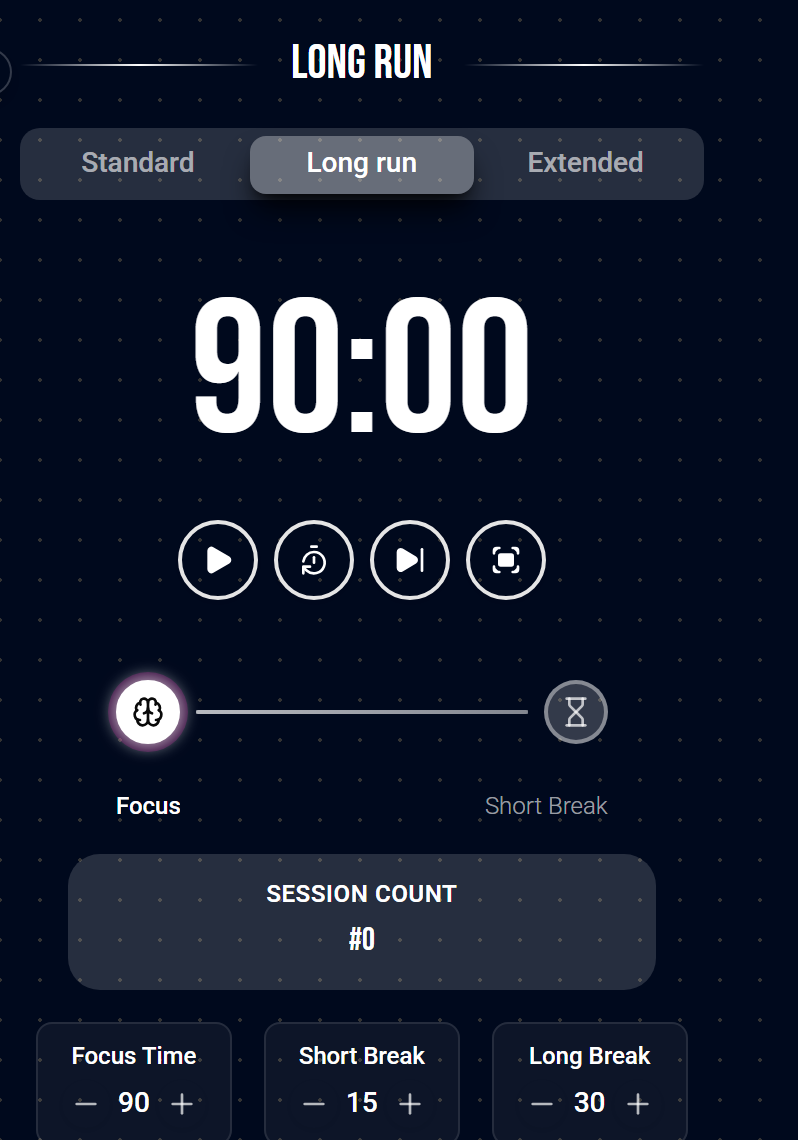
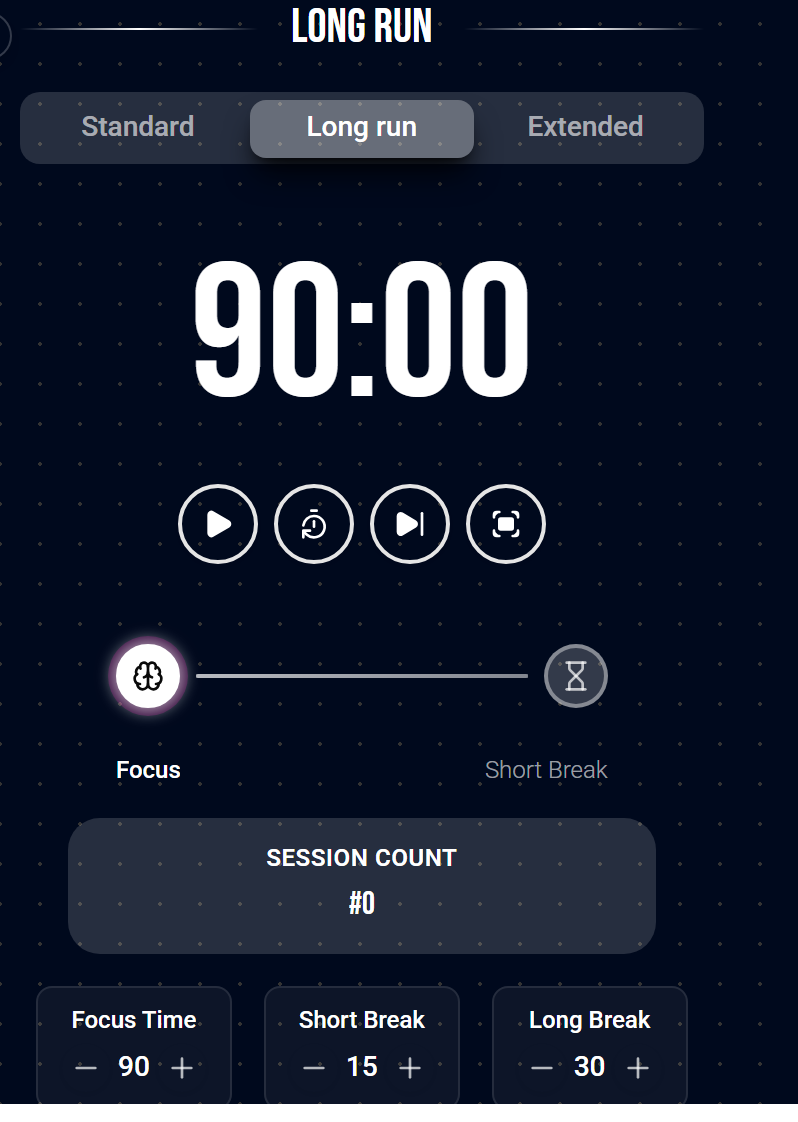
refactor: replace mismatched spotlight/grid sections with one unified feature showcase
Previously 3 features (Dashboard, Focus Timer, AI Assistant) were shown
as large alternating spotlight sections while 4 others (Habit Tracker,
Task Board, Reminders, Goals) sat below in a small screenshot grid,
an inconsistent presentation for what should read as one feature set.

Replace both with a single interactive FeatureShowcase: a tab list on
one side (all 8 screens that have a real screenshot, including Profile)
and one fixed-size frame on the other. The frame uses object-contain
inside a centered flex box, so every screenshot is centered on both
axes regardless of its own aspect ratio, and switching tabs fades the
new screenshot in.

Also fix the focus timer screenshot itself: it had 44px of empty space
above the "LONG RUN" title versus 26px below the break-duration cards,
so the content looked vertically off-center inside its own frame. Trim
the top to match. Crop the previously-unused Habit Tracker, Task Board,
Reminders, Goals, and Profile screenshots the same way (removing their
trailing dead space) before wiring them into the new showcase.

diff --git a/src/routes/index.tsx b/src/routes/index.tsx
@@ -1,4 +1,5 @@
 import { createFileRoute, Link, redirect } from "@tanstack/react-router";
+import { useState } from "react";
 import {
   Timer,
   Activity,
@@ -98,28 +99,70 @@ const features = [
   },
 ];
 
-const spotlights = [
+const showcaseItems = [
   {
-    title: "See everything at a glance",
+    icon: LayoutDashboard,
+    title: "Dashboard",
     description:
-      "The dashboard pulls together focus sessions completed today, tasks done versus total with an overdue count, reminders due today, and your average habit completion rate, plus a goal-in-focus card, a task status chart, a weekly habit chart, and an upcoming agenda.",
+      "Focus sessions, tasks, reminders, and habit completion, plus a goal-in-focus card and charts, all on one screen.",
     image: "/images/landing/dashboard.png",
     alt: "Zendoro dashboard showing stat cards, a goal card, charts, and an upcoming task list",
   },
   {
-    title: "Work in focused bursts",
+    icon: Timer,
+    title: "Focus Timer",
     description:
-      "Pick Standard, Extended, or Long run mode, fine-tune your focus, short break, and long break durations, then start the timer. Every completed session is counted and rolled up into your dashboard.",
+      "Standard, Extended, or Long run mode, with fully adjustable focus and break durations. Every session rolls up into your dashboard.",
     image: "/images/landing/focus.png",
     alt: "Zendoro Focus Time page with a Long run timer and session counter",
-    portrait: true,
   },
   {
-    title: "Ask your own data a question",
+    icon: Target,
+    title: "Habit Tracker",
     description:
-      "The AI assistant is built on Gemini function calling: it decides which of your real tasks, habits, or reminders to query, then writes an answer grounded in that data, formatted as Markdown instead of a guess.",
+      "Check habits off across a Monday-to-Sunday grid, with a completion rate calculated automatically for each one.",
+    image: "/images/landing/habits.png",
+    alt: "Zendoro Habit Tracker page with a weekly completion grid for five habits",
+  },
+  {
+    icon: CheckSquare,
+    title: "Task Board",
+    description:
+      "A drag-and-drop Kanban board with TODO, In Progress, Done, and Kill columns for every task.",
+    image: "/images/landing/todo.png",
+    alt: "Zendoro TODOs page with a four column Kanban board",
+  },
+  {
+    icon: Bell,
+    title: "Reminders",
+    description:
+      "A calendar of upcoming, completed, and overdue reminders, with priorities and due dates that can link to a task.",
+    image: "/images/landing/reminders.png",
+    alt: "Zendoro Reminder page with a monthly calendar and a reminder list",
+  },
+  {
+    icon: Trophy,
+    title: "Goals",
+    description:
+      "Tie tasks, habits, and reminders to a single goal and watch overall progress calculate itself.",
+    image: "/images/landing/goals.png",
+    alt: "Zendoro Goals page listing goals with progress bars",
+  },
+  {
+    icon: Bot,
+    title: "AI Assistant",
+    description:
+      "Built on Gemini function calling: it queries your real tasks, habits, or reminders, then writes an answer grounded in that data.",
     image: "/images/landing/ai-assistant.png",
     alt: "Zendoro AI Assistant chat answering a question about the user's tasks",
+  },
+  {
+    icon: UserCircle,
+    title: "Profile & Account",
+    description:
+      "Manage your profile picture and account details, with full control to delete your data at any time.",
+    image: "/images/landing/profile.png",
+    alt: "Zendoro Profile page with account information and a danger zone",
   },
 ];
 
@@ -302,50 +345,60 @@ function FeatureGrid() {
   );
 }
 
-function Spotlight({
-  title,
-  description,
-  image,
-  alt,
-  reverse,
-  anchorId,
-  portrait,
-}: {
-  title: string;
-  description: string;
-  image: string;
-  alt: string;
-  reverse?: boolean;
-  anchorId?: string;
-  portrait?: boolean;
-}) {
+function FeatureShowcase() {
+  const [active, setActive] = useState(0);
+  const current = showcaseItems[active];
+
   return (
-    <section id={anchorId} className="px-4 py-14 md:px-6 md:py-20">
-      <div
-        className={`mx-auto flex max-w-6xl flex-col items-center gap-10 md:gap-16 lg:flex-row ${
-          reverse ? "lg:flex-row-reverse" : ""
-        }`}
-      >
-        <div className="flex-1">
-          <div
-            className={`relative rounded-2xl border border-white/10 bg-white/5 p-2 shadow-xl ${
-              portrait ? "mx-auto max-w-[280px] sm:max-w-xs" : ""
-            }`}
-          >
+    <section id="ai-assistant" className="px-4 py-20 md:px-6 md:py-28">
+      <div className="mx-auto max-w-6xl">
+        <div className="mx-auto max-w-2xl text-center">
+          <h2 className="font-beba text-4xl text-white md:text-5xl">
+            Every feature, one workspace
+          </h2>
+          <p className="mt-4 text-white/70">
+            Pick a screen to see what it actually looks like.
+          </p>
+        </div>
+
+        <div className="mt-12 grid grid-cols-1 gap-6 lg:grid-cols-[320px_1fr] lg:gap-10">
+          <div className="flex gap-2 overflow-x-auto pb-2 lg:flex-col lg:overflow-visible lg:pb-0">
+            {showcaseItems.map((item, i) => (
+              <button
+                key={item.title}
+                type="button"
+                onClick={() => setActive(i)}
+                className={`flex shrink-0 items-start gap-3 rounded-xl border px-4 py-3 text-left transition-colors lg:shrink lg:w-full ${
+                  i === active
+                    ? "border-white/20 bg-white/10"
+                    : "border-white/10 bg-white/5 hover:bg-white/[0.07]"
+                }`}
+              >
+                <item.icon
+                  className={`mt-0.5 h-5 w-5 shrink-0 ${i === active ? "text-white" : "text-white/50"}`}
+                />
+                <span className="min-w-[10rem] lg:min-w-0">
+                  <span
+                    className={`block text-sm font-semibold whitespace-nowrap lg:whitespace-normal ${i === active ? "text-white" : "text-white/80"}`}
+                  >
+                    {item.title}
+                  </span>
+                  <span className="hidden text-xs text-white/50 lg:mt-0.5 lg:block">
+                    {item.description}
+                  </span>
+                </span>
+              </button>
+            ))}
+          </div>
+
+          <div className="flex h-[380px] items-center justify-center overflow-hidden rounded-2xl border border-white/10 bg-white/5 p-4 sm:h-[440px] md:p-6 lg:h-[520px]">
             <img
-              src={image}
-              alt={alt}
-              className="w-full rounded-xl border border-white/10"
+              key={current.image}
+              src={current.image}
+              alt={current.alt}
+              className="animate-fade-in-up max-h-full max-w-full rounded-xl border border-white/10 object-contain"
             />
           </div>
-        </div>
-        <div className="flex-1">
-          <h3 className="font-beba text-3xl text-white md:text-4xl">
-            {title}
-          </h3>
-          <p className="mt-4 text-base leading-relaxed text-white/70">
-            {description}
-          </p>
         </div>
       </div>
     </section>
@@ -450,18 +503,7 @@ function LandingPage() {
       <Hero />
       <StatsStrip />
       <FeatureGrid />
-      {spotlights.map((s, i) => (
-        <Spotlight
-          key={s.title}
-          title={s.title}
-          description={s.description}
-          image={s.image}
-          alt={s.alt}
-          reverse={i % 2 === 1}
-          anchorId={i === 2 ? "ai-assistant" : undefined}
-          portrait={s.portrait}
-        />
-      ))}
+      <FeatureShowcase />
       <FAQSection />
       <CTASection />
       <Footer />